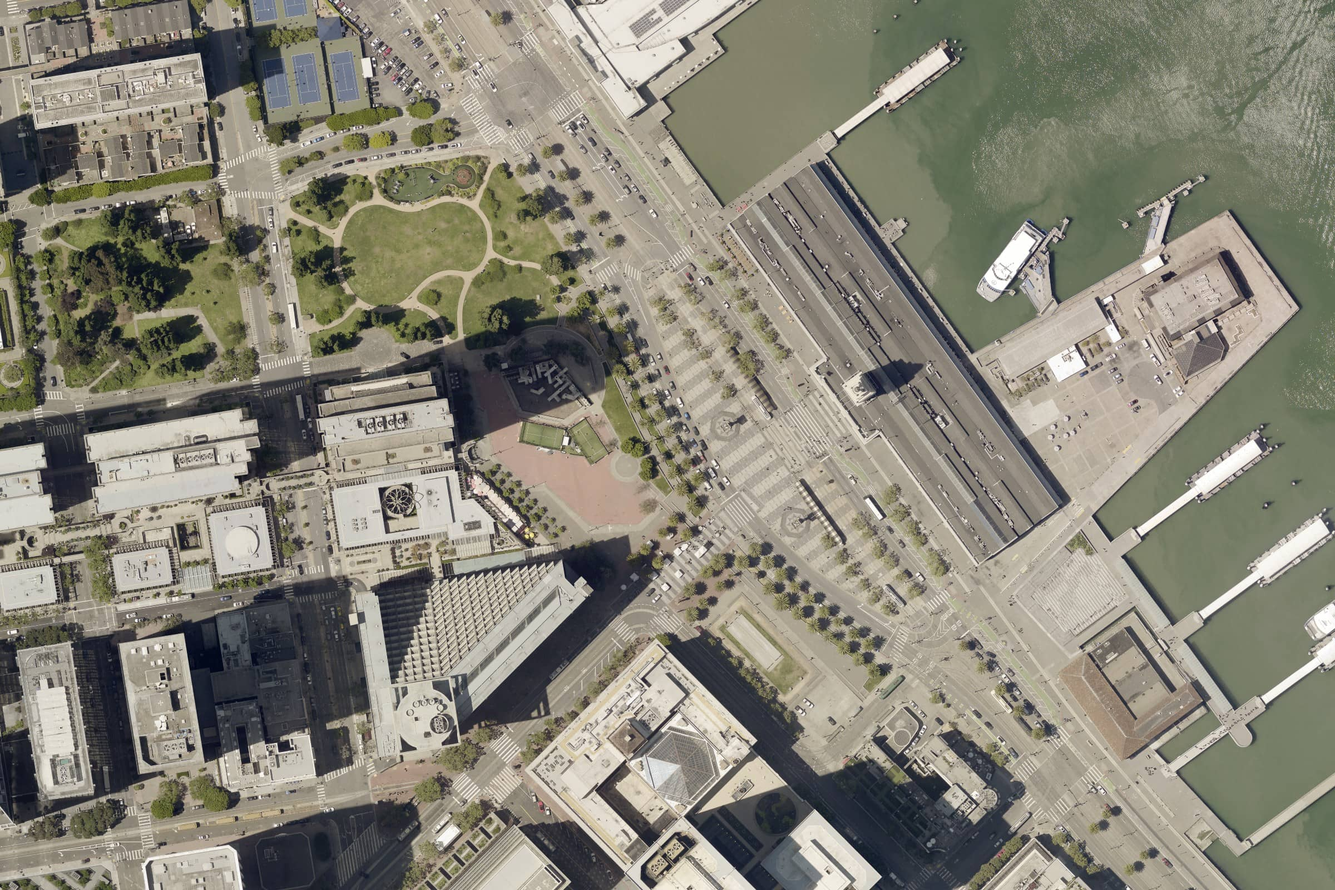
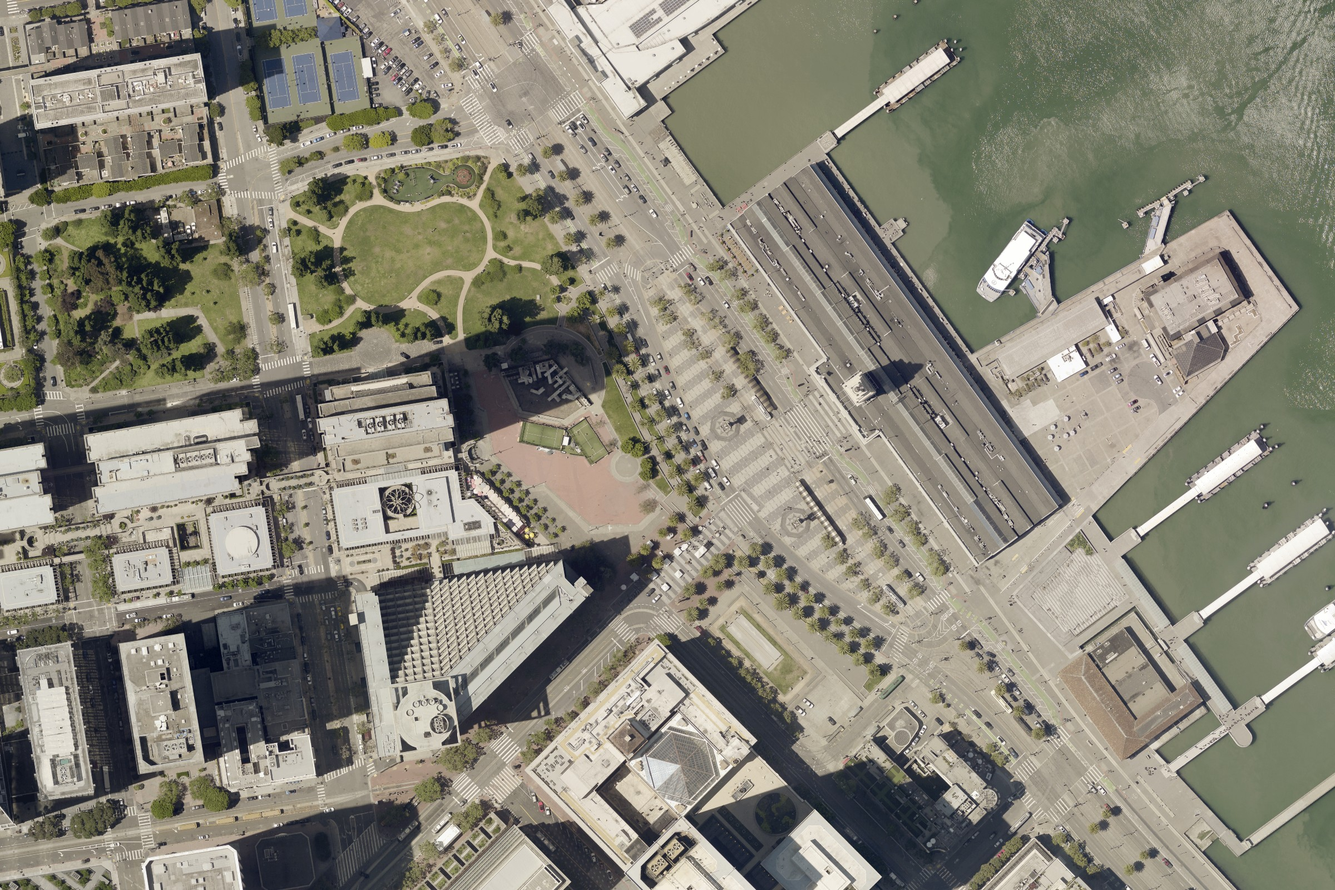
Enable opening images in new window and add full size images

Changed region(s): [[0.9375, 0.0312, 1.0, 0.1562], [0.7812, 0.0, 0.875, 0.0625], [0.3438, 0.6562, 0.375, 0.7188]]

diff --git a/src/app/history/page.tsx b/src/app/history/page.tsx
@@ -174,6 +174,7 @@ function HistoricImages() {
                   {category.images.map((individualImage) => (
                     <li key={individualImage.description}>
                       <FadeIn>
+                        <a href={individualImage.image.src.src} target="_blank">
                         <div className="group relative overflow-hidden rounded-3xl bg-neutral-100">
                           <Image
                             alt=""
@@ -189,6 +190,7 @@ function HistoricImages() {
                             </p>
                           </div>
                         </div>
+                        </a>
                       </FadeIn>
                     </li>
                   ))}
